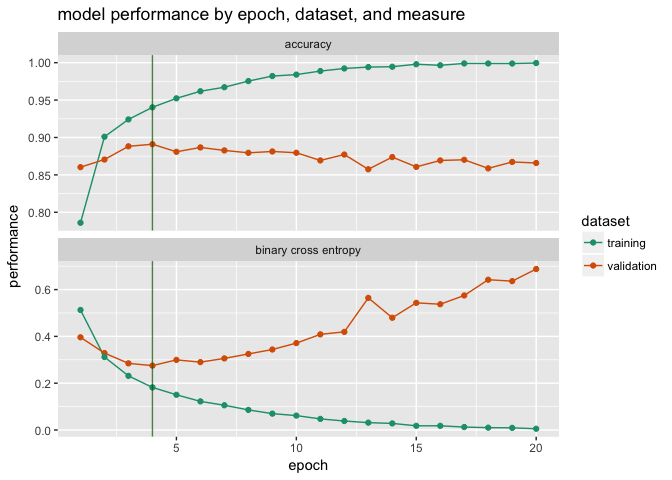
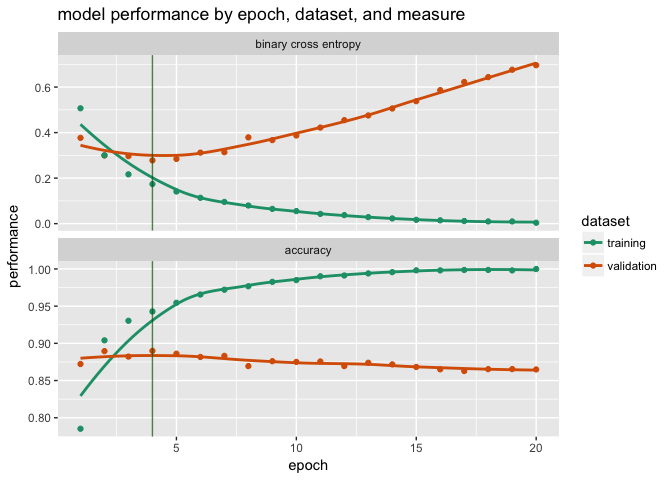
re-plot

diff --git a/extras/PlotExample.md b/extras/PlotExample.md
@@ -12,19 +12,31 @@ library("cdata")
 
 ``` r
 library("seplyr")
+library("keras")
+```
 
-d <- readRDS("metrics.rds")
+    ## Warning: package 'keras' was built under R version 3.4.3
+
+``` r
+h <- readRDS("historyobject.rds")
+plot(h)
+```
+
+![](PlotExample_files/figure-markdown_github/setup-1.png)
+
+``` r
+d <- readRDS("metricsframe.rds")
 d$epoch <- seq_len(nrow(d))
 head(d)
 ```
 
     ##    val_loss val_acc      loss       acc epoch
-    ## 1 0.3961181  0.8603 0.5129159 0.7860000     1
-    ## 2 0.3287723  0.8705 0.3118882 0.9010000     2
-    ## 3 0.2847305  0.8882 0.2313340 0.9241333     3
-    ## 4 0.2750951  0.8910 0.1819643 0.9403333     4
-    ## 5 0.2996226  0.8809 0.1505077 0.9523333     5
-    ## 6 0.2899937  0.8867 0.1222806 0.9618000     6
+    ## 1 0.3769818  0.8722 0.5067290 0.7852000     1
+    ## 2 0.2996994  0.8895 0.3002033 0.9040000     2
+    ## 3 0.2963943  0.8822 0.2165675 0.9303333     3
+    ## 4 0.2779052  0.8899 0.1738829 0.9428000     4
+    ## 5 0.2842501  0.8861 0.1410933 0.9545333     5
+    ## 6 0.3119754  0.8817 0.1135626 0.9656000     6
 
 ``` r
 cT <- buildUnPivotControlTable(
@@ -42,12 +54,12 @@ head(dT)
 ```
 
     ##   epoch orig_col_name performance
-    ## 1     1      val_loss   0.3961181
-    ## 2     1       val_acc   0.8603000
-    ## 3     1          loss   0.5129159
-    ## 4     1           acc   0.7860000
-    ## 5     2      val_loss   0.3287723
-    ## 6     2       val_acc   0.8705000
+    ## 1     1      val_loss   0.3769818
+    ## 2     1       val_acc   0.8722000
+    ## 3     1          loss   0.5067290
+    ## 4     1           acc   0.7852000
+    ## 5     2      val_loss   0.2996994
+    ## 6     2       val_acc   0.8895000
 
 ``` r
 mp <- data.frame(
@@ -71,16 +83,19 @@ print(mp)
 dT <- map_fieldsD(dT, 
                   "orig_col_name",
                   mp)
+dT$measure <- factor(dT$measure, 
+                     levels = c("binary cross entropy",
+                                "accuracy"))
 head(dT)
 ```
 
     ##   epoch orig_col_name performance    dataset              measure
-    ## 1     1      val_loss   0.3961181 validation binary cross entropy
-    ## 2     1       val_acc   0.8603000 validation             accuracy
-    ## 3     1          loss   0.5129159   training binary cross entropy
-    ## 4     1           acc   0.7860000   training             accuracy
-    ## 5     2      val_loss   0.3287723 validation binary cross entropy
-    ## 6     2       val_acc   0.8705000 validation             accuracy
+    ## 1     1      val_loss   0.3769818 validation binary cross entropy
+    ## 2     1       val_acc   0.8722000 validation             accuracy
+    ## 3     1          loss   0.5067290   training binary cross entropy
+    ## 4     1           acc   0.7852000   training             accuracy
+    ## 5     2      val_loss   0.2996994 validation binary cross entropy
+    ## 6     2       val_acc   0.8895000 validation             accuracy
 
 ``` r
 pick <- dT %.>%
@@ -94,12 +109,14 @@ ggplot(data = dT,
            y = performance,
            color = dataset)) +
   geom_point() +
-  geom_line() +
+  geom_smooth(se = FALSE) +
   facet_wrap(~measure, ncol=1, scales = "free_y") +
   geom_vline(xintercept = pick, alpha=0.7, color='darkgreen') +
   scale_color_brewer(palette = "Dark2") + 
   ggtitle("model performance by epoch, dataset, and measure")
 ```
+
+    ## `geom_smooth()` using method = 'loess'
 
 ![](PlotExample_files/figure-markdown_github/firstplot-1.png)
 
@@ -107,8 +124,8 @@ ggplot(data = dT,
 print(head(d, n=1))
 ```
 
-    ##    val_loss val_acc      loss   acc epoch
-    ## 1 0.3961181  0.8603 0.5129159 0.786     1
+    ##    val_loss val_acc     loss    acc epoch
+    ## 1 0.3769818  0.8722 0.506729 0.7852     1
 
 ``` r
 cT <- dplyr::tribble(
@@ -130,16 +147,20 @@ dT <- moveValuesToRowsD(
   d,
   controlTable = cT,
   columnsToCopy = "epoch")
+
+dT$measure <- factor(dT$measure, 
+                     levels = c("binary cross entropy",
+                                "accuracy"))
 print(head(dT))
 ```
 
     ##   epoch              measure  training validation
-    ## 1     1 binary cross entropy 0.5129159  0.3961181
-    ## 2     1             accuracy 0.7860000  0.8603000
-    ## 3     2 binary cross entropy 0.3118882  0.3287723
-    ## 4     2             accuracy 0.9010000  0.8705000
-    ## 5     3 binary cross entropy 0.2313340  0.2847305
-    ## 6     3             accuracy 0.9241333  0.8882000
+    ## 1     1 binary cross entropy 0.5067290  0.3769818
+    ## 2     1             accuracy 0.7852000  0.8722000
+    ## 3     2 binary cross entropy 0.3002033  0.2996994
+    ## 4     2             accuracy 0.9040000  0.8895000
+    ## 5     3 binary cross entropy 0.2165675  0.2963943
+    ## 6     3             accuracy 0.9303333  0.8822000
 
 ``` r
 pick <- dT %.>%
